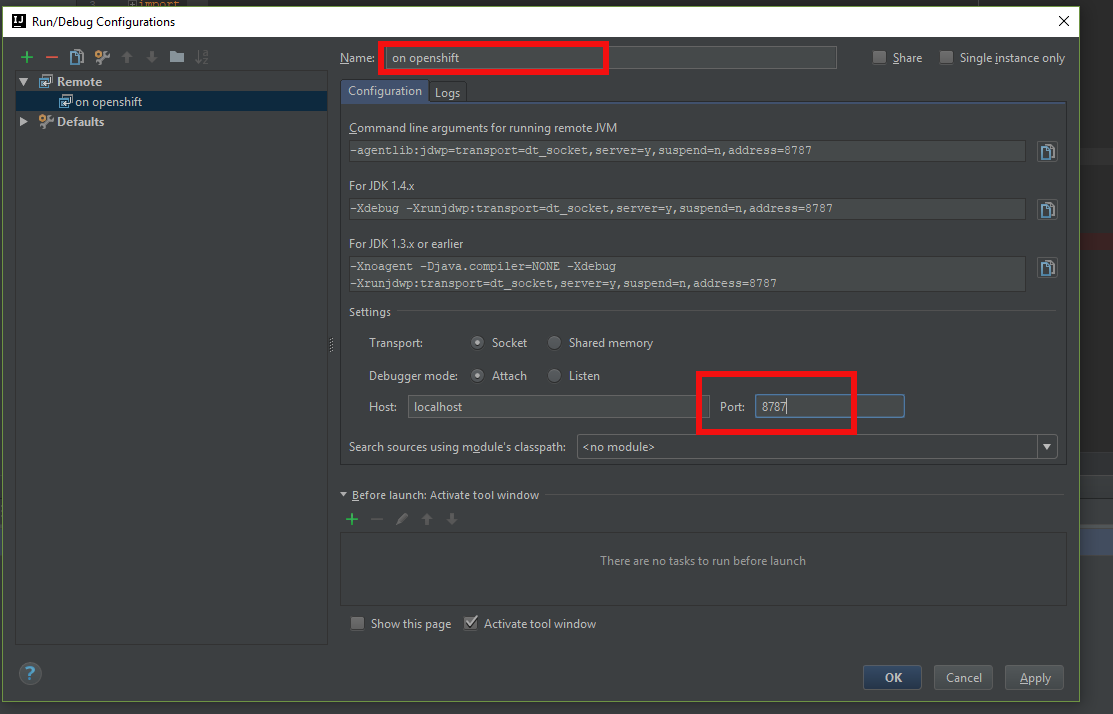
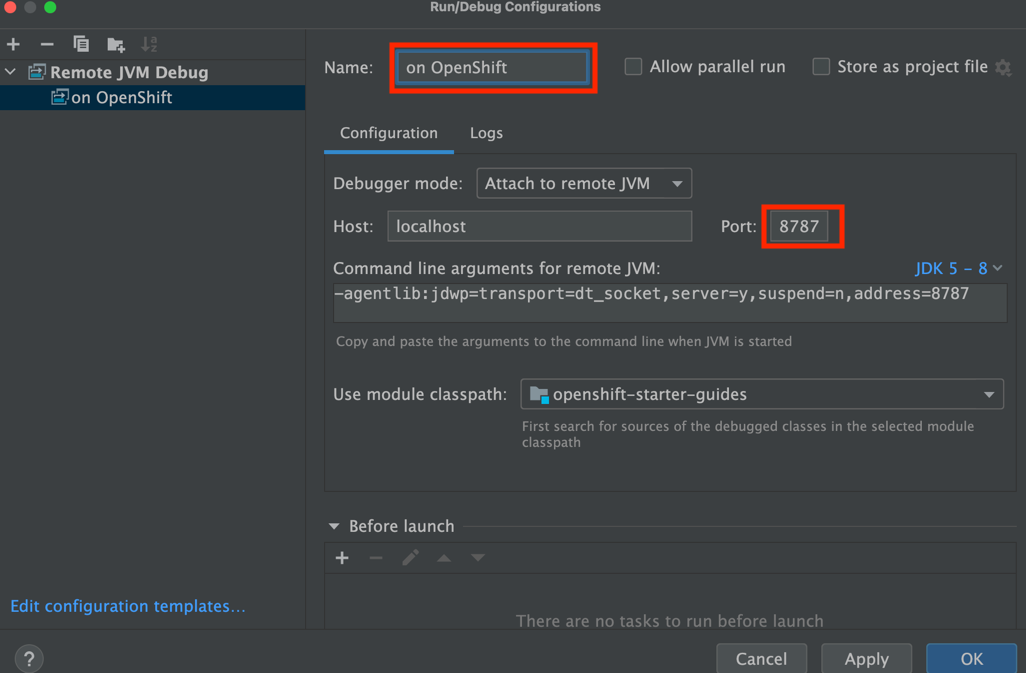
[CI] Publish Documentation for 09c0a506e0b494e4235798f76efe786e88f36706 - 09c0a506e0b494e4235798f76efe786e88f36706 🚀

diff --git a/rhs-openshift-starter-guides/4.9/mlbparks-debugging.html b/rhs-openshift-starter-guides/4.9/mlbparks-debugging.html
@@ -777,7 +777,7 @@ Initializing jdb ...
 Under the Run menu (<span class="keyseq"><kbd>ALT</kbd>+<kbd>u</kbd></span>), choose edit configurations. This will bring up the new configuration dialog.</p>
 </div>
 <div class="paragraph">
-<p>Click the plus in the top left corner, scroll down, and choose remote.</p>
+<p>Click the plus in the top left corner, scroll down, and choose Remote JVM Debug.</p>
 </div>
 <div class="imageblock">
 <div class="content">
